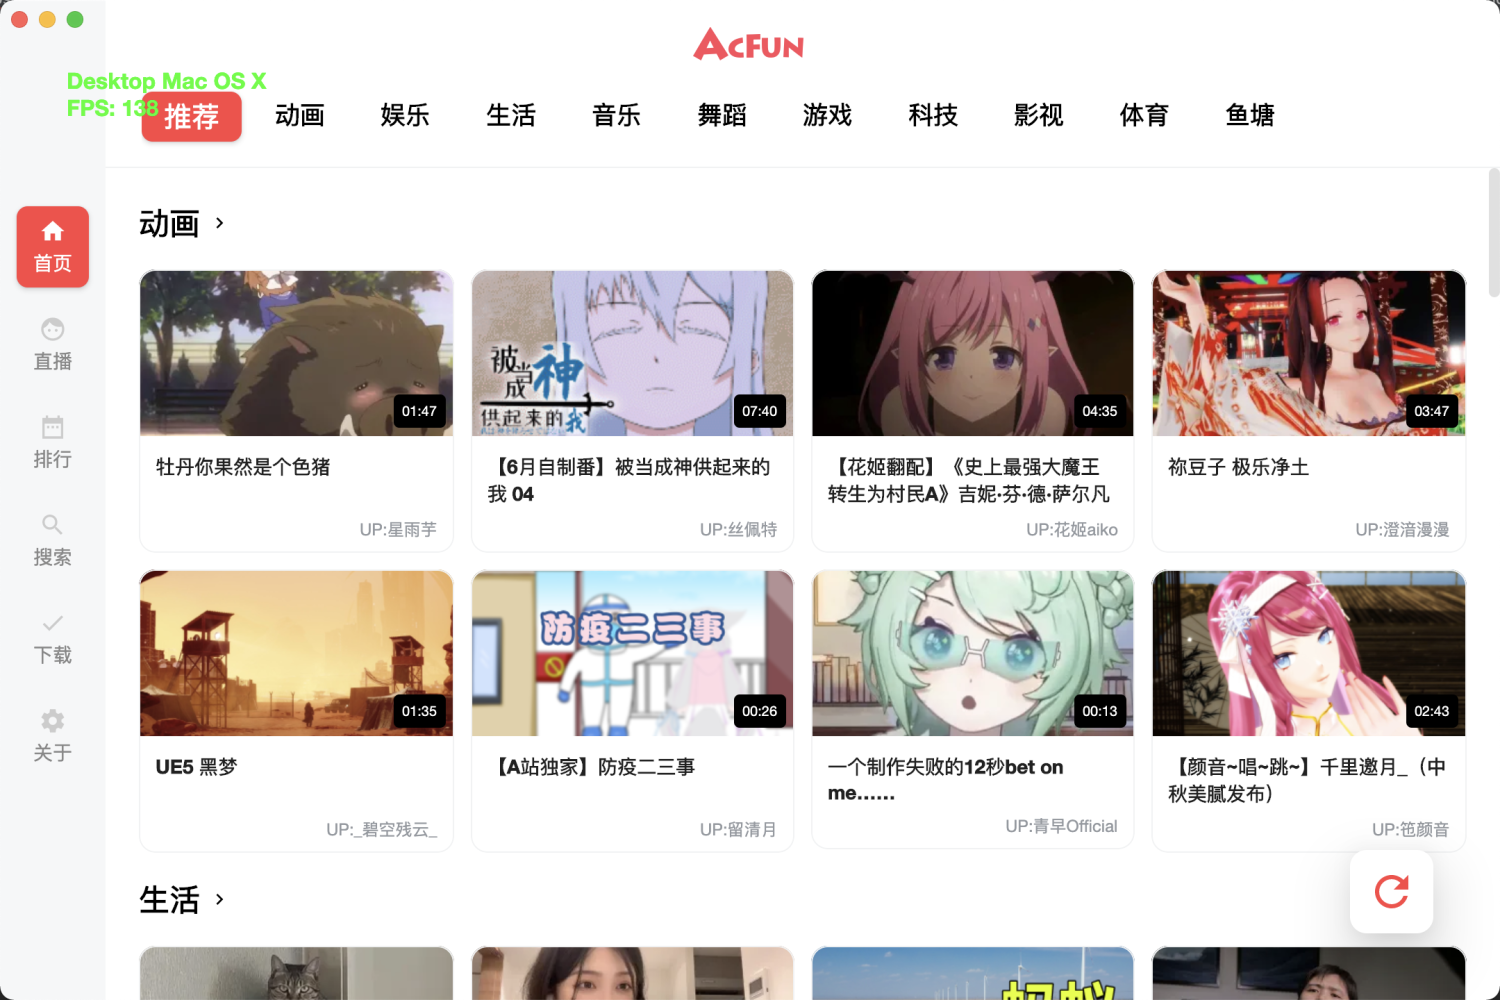
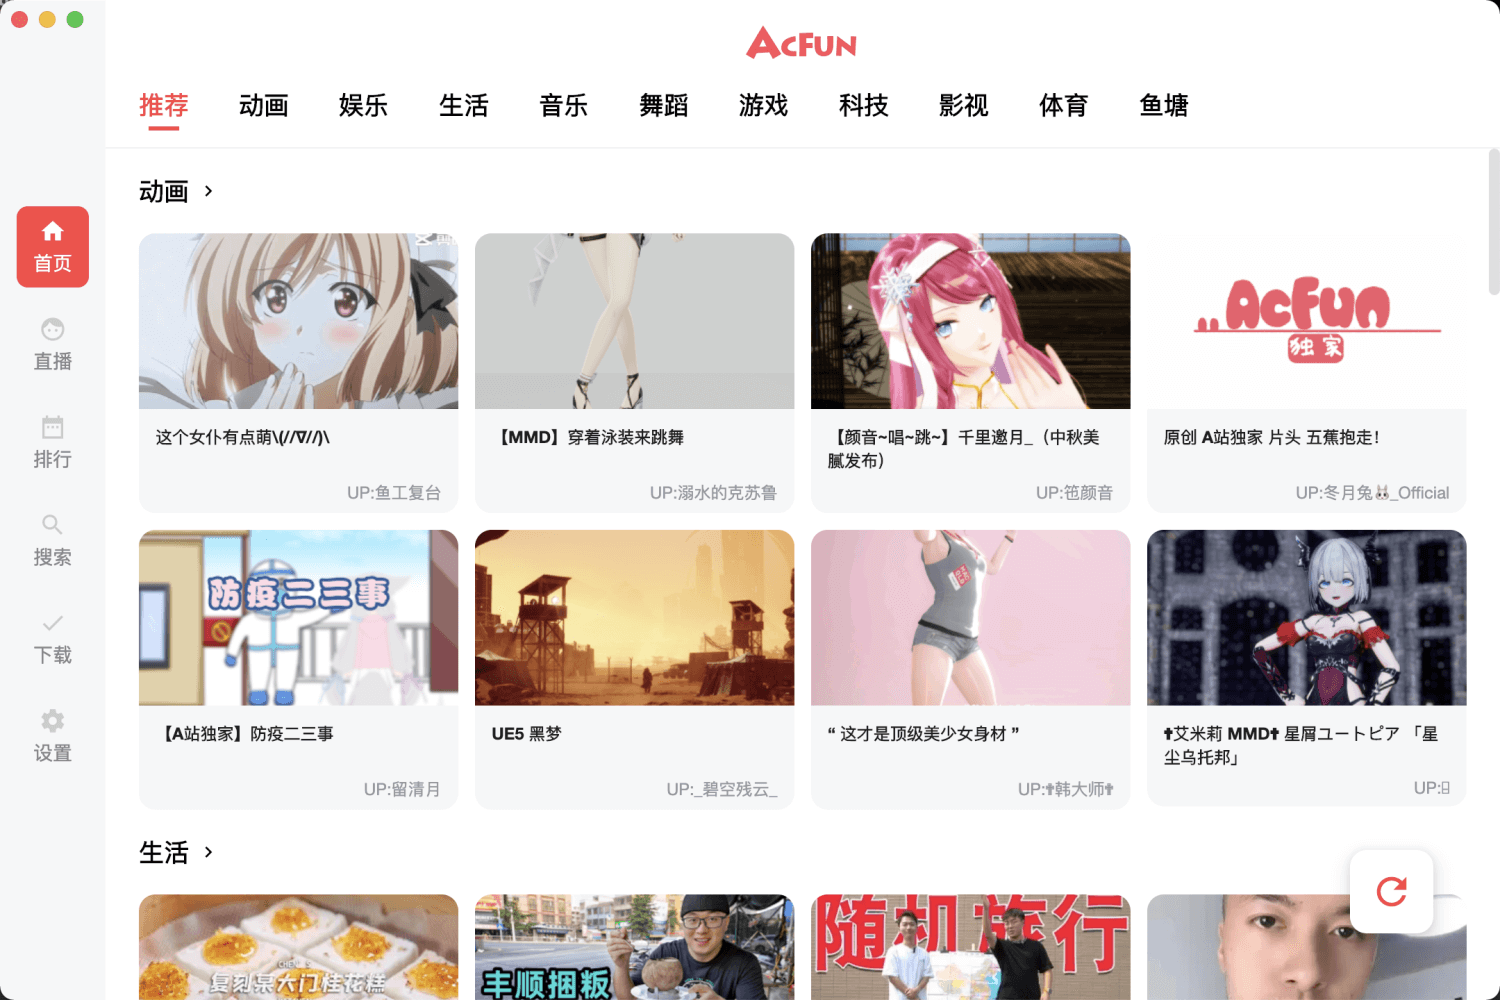
feat: update the video detail design

diff --git a/shared/src/commonMain/kotlin/org/succlz123/app/acfun/ui/detail/VideoDetailScreen.kt b/shared/src/commonMain/kotlin/org/succlz123/app/acfun/ui/detail/VideoDetailScreen.kt
@@ -17,9 +17,8 @@ import androidx.compose.runtime.mutableStateOf
 import androidx.compose.runtime.remember
 import androidx.compose.ui.Alignment
 import androidx.compose.ui.Modifier
-import androidx.compose.ui.draw.alpha
+import androidx.compose.ui.draw.clip
 import androidx.compose.ui.graphics.Color
-import androidx.compose.ui.layout.ContentScale
 import androidx.compose.ui.text.font.FontWeight
 import androidx.compose.ui.unit.dp
 import androidx.compose.ui.unit.sp
@@ -27,7 +26,7 @@ import org.succlz123.app.acfun.Manifest
 import org.succlz123.app.acfun.api.bean.AcContent
 import org.succlz123.app.acfun.api.bean.VideoContent
 import org.succlz123.app.acfun.base.AcBackButton
-import org.succlz123.app.acfun.base.AcOutlineButton
+import org.succlz123.app.acfun.base.AcDivider
 import org.succlz123.app.acfun.base.LoadingView
 import org.succlz123.app.acfun.theme.ColorResource
 import org.succlz123.lib.click.noRippleClickable
@@ -39,6 +38,7 @@ import org.succlz123.lib.image.AsyncImageUrlMultiPlatform
 import org.succlz123.lib.screen.LocalScreenNavigator
 import org.succlz123.lib.screen.LocalScreenRecord
 import org.succlz123.lib.screen.ScreenArgs
+import org.succlz123.lib.screen.ext.popupwindow.PopupWindowLayout
 import org.succlz123.lib.screen.operation.PushOptions
 import org.succlz123.lib.screen.result.ScreenResult
 import org.succlz123.lib.screen.value
@@ -60,14 +60,10 @@ fun VideoDetailScreen() {
     LaunchedEffect(Unit) {
         viewModel.getDetail(acContent)
     }
-    Box(modifier = Modifier.fillMaxSize().background(Color.White)) {
-        Box(modifier = Modifier.fillMaxSize().alpha(0.1f)) {
-            AsyncImageUrlMultiPlatform(
-                modifier = Modifier.fillMaxSize(), url = acContent.img.orEmpty(), contentScale = ContentScale.Crop
-            )
-        }
+    Box(modifier = Modifier.fillMaxSize().background(Color.White).noRippleClickable {
+        screenNavigation.cancelPopupWindow()
+    }) {
         val videoContent = viewModel.videoContentState.value
-
         when (videoContent) {
             is ScreenResult.Uninitialized, is ScreenResult.Loading -> {
                 LoadingView()
@@ -189,17 +185,19 @@ fun videoDetailContent(acContent: AcContent, vContent: VideoContent, viewModel: 
                 }, text = vContent.user?.name.orEmpty(), fontSize = 20.sp, color = ColorResource.acRed
             )
             Spacer(modifier = Modifier.width(16.dp))
-            Text(
-                text = "发布于: " + vContent.createTime.orEmpty(),
-                style = MaterialTheme.typography.body2,
-                fontSize = 12.sp
-            )
-            Spacer(modifier = Modifier.weight(1f))
-            Text(
-                text = "关注数: " + vContent.user?.fanCount.orEmpty(),
-                style = MaterialTheme.typography.body2,
-                fontSize = 12.sp
-            )
+            Column {
+                Text(
+                    text = "发布于: " + vContent.createTime.orEmpty(),
+                    style = MaterialTheme.typography.body2,
+                    fontSize = 12.sp
+                )
+                Spacer(modifier = Modifier.height(2.dp))
+                Text(
+                    text = "关注数: " + vContent.user?.fanCount.orEmpty(),
+                    style = MaterialTheme.typography.body2,
+                    fontSize = 12.sp
+                )
+            }
         }
         Spacer(modifier = Modifier.fillMaxWidth().height(16.dp))
         if (!vContent.description.isNullOrEmpty()) {
@@ -257,42 +255,71 @@ fun videoDetailContent(acContent: AcContent, vContent: VideoContent, viewModel: 
         LazyVerticalGrid(
             columns = GridCells.Fixed(
                 if (isExpandedScreen) {
-                    8
+                    6
                 } else {
-                    3
+                    2
                 }
-            ), modifier = Modifier.fillMaxSize()
+            ),
+            modifier = Modifier.fillMaxSize(),
+            contentPadding = PaddingValues(top = 12.dp, bottom = 12.dp),
+            verticalArrangement = Arrangement.spacedBy(12.dp),
+            horizontalArrangement = Arrangement.spacedBy(12.dp)
         ) {
             itemsIndexed(vContent.videoList.orEmpty()) { index, item ->
-                val modifier = if (index % 10 == 0) {
-                    Modifier.padding(0.dp, 0.dp, 6.dp, 12.dp)
-                } else if ((index + 1) % 12 == 0) {
-                    Modifier.padding(6.dp, 0.dp, 0.dp, 12.dp)
-                } else {
-                    Modifier.padding(6.dp, 0.dp, 6.dp, 12.dp)
-                }
-                Row(
-                    modifier = modifier.weight(1f),
-                    verticalAlignment = Alignment.CenterVertically,
-                    horizontalArrangement = Arrangement.Center
+                Box(
+                    modifier = Modifier.weight(1f).height(52.dp).clip(MaterialTheme.shapes.medium)
+                        .background(ColorResource.background)
                 ) {
-                    AcOutlineButton(modifier = Modifier, onClick = {
+                    Box(modifier = Modifier.align(Alignment.Center).fillMaxWidth().noRippleClickable {
                         viewModel.play(acContent, index + 1)
-                    }, content = {
-                        AsyncImageUrlMultiPlatform(url = "ic_download.png",
-                            modifier = Modifier.width(20.dp).height(20.dp).noRippleClickable {
-                                if (getPlatformName() == "Android") {
-                                    screenNavigation.toast("Android 还未适配下载...")
-                                    return@noRippleClickable
+                    }, contentAlignment = Alignment.Center) {
+                        Text(text = (index + 1).toString(), style = MaterialTheme.typography.h3)
+                    }
+                    PopupWindowLayout(modifier = Modifier.align(Alignment.CenterEnd),
+                        displayContent = {
+                            Card(
+                                modifier = Modifier.padding(12.dp),
+                                shape = RoundedCornerShape(8.dp),
+                                elevation = 3.dp,
+                                backgroundColor = Color.White
+                            ) {
+                                Column(
+                                    modifier = Modifier.padding(24.dp),
+                                    verticalArrangement = Arrangement.Center,
+                                ) {
+                                    OptionItem(modifier = Modifier.noRippleClickable {
+                                        if (getPlatformName() == "Android") {
+                                            screenNavigation.toast("Android 还未适配下载...")
+                                            screenNavigation.cancelPopupWindow()
+                                            return@noRippleClickable
+                                        }
+                                        viewModel.download(acContent, index + 1)
+                                        screenNavigation.cancelPopupWindow()
+                                    }, "下载视频")
+                                    Spacer(modifier = Modifier.height(24.dp))
+                                    AcDivider()
+                                    Spacer(modifier = Modifier.height(24.dp))
+                                    OptionItem(modifier = Modifier.noRippleClickable {
+                                        screenNavigation.toast("开发中...")
+                                        screenNavigation.cancelPopupWindow()
+                                    }, "无线投屏")
                                 }
-                                viewModel.download(acContent, index + 1)
-                            })
-                        Spacer(modifier = Modifier.width(16.dp))
-                        Text(text = (index + 1).toString(), fontSize = 16.sp)
-                    })
+                            }
+                        },
+                        clickableContent = {
+                            AsyncImageUrlMultiPlatform(
+                                url = "ic_show_more.png",
+                                modifier = Modifier.padding(12.dp, 6.dp, 12.dp, 6.dp).width(20.dp).height(20.dp)
+                            )
+                        })
                 }
             }
         }
     }
 }
 
+
+@Composable
+fun OptionItem(modifier: Modifier, title: String) {
+    Text(modifier = modifier, text = title, fontSize = 16.sp, color = Color.Black)
+}

diff --git a/shared/src/commonMain/kotlin/org/succlz123/app/acfun/base/BaseView.kt b/shared/src/commonMain/kotlin/org/succlz123/app/acfun/base/BaseView.kt
@@ -29,11 +29,11 @@ fun LoadingView() {
 
 @Composable
 fun AcRefreshButton(modifier: Modifier, onClick: () -> Unit) {
-    Card(modifier = modifier, backgroundColor = Color.White, elevation = 32.dp) {
+    Card(modifier = modifier, backgroundColor = Color.White, elevation = 12.dp) {
         Box(modifier = Modifier.padding(12.dp).noRippleClickable(onClick)) {
             Icon(
                 Icons.Sharp.Refresh,
-                modifier = Modifier.size(36.dp),
+                modifier = Modifier.size(36.dp).padding(2.dp),
                 contentDescription = "Refresh",
                 tint = ColorResource.acRed
             )
@@ -43,11 +43,11 @@ fun AcRefreshButton(modifier: Modifier, onClick: () -> Unit) {
 
 @Composable
 fun AcGo2TopButton(modifier: Modifier, onClick: () -> Unit) {
-    Card(modifier = modifier, backgroundColor = Color.White, elevation = 32.dp) {
+    Card(modifier = modifier, backgroundColor = Color.White, elevation = 12.dp) {
         Box(modifier = Modifier.padding(12.dp).noRippleClickable(onClick)) {
             Icon(
                 Icons.Sharp.KeyboardArrowUp,
-                modifier = Modifier.size(36.dp),
+                modifier = Modifier.size(36.dp).padding(2.dp),
                 contentDescription = "Go to top",
                 tint = ColorResource.acRed
             )

diff --git a/shared/src/commonMain/kotlin/org/succlz123/app/acfun/ui/main/tab/item/MainHomeContentInfo.kt b/shared/src/commonMain/kotlin/org/succlz123/app/acfun/ui/main/tab/item/MainHomeContentInfo.kt
@@ -1,7 +1,6 @@
 package org.succlz123.app.acfun.ui.main.tab.item
 
 import androidx.compose.foundation.background
-import androidx.compose.foundation.border
 import androidx.compose.foundation.layout.*
 import androidx.compose.foundation.shape.RoundedCornerShape
 import androidx.compose.material.MaterialTheme
@@ -25,8 +24,9 @@ import org.succlz123.lib.screen.ScreenArgs
 fun MainHomeContentInfo(item: HomeRecommendItem) {
     val screenNavigator = LocalScreenNavigator.current
     Box(
-        modifier = Modifier.background(Color.White).clip(MaterialTheme.shapes.medium)
-            .border(1.dp, ColorResource.border, MaterialTheme.shapes.medium).fillMaxWidth()
+        modifier = Modifier.clip(MaterialTheme.shapes.medium)
+            .background(ColorResource.background)
+            .fillMaxWidth()
     ) {
         Column(modifier = Modifier.noRippleClickable {
             if (item.item?.type == AcContent.TYPE_LIVE) {

diff --git a/shared/src/commonMain/kotlin/org/succlz123/app/acfun/ui/main/MainScreen.kt b/shared/src/commonMain/kotlin/org/succlz123/app/acfun/ui/main/MainScreen.kt
@@ -144,11 +144,10 @@ fun LazyListScope.mainLeft(mainVm: MainViewModel, leftSelectItem: MutableState<I
         Card(
             modifier = Modifier.noRippleClickable {
                 leftSelectItem.value = index
-            }, shape = RoundedCornerShape(8.dp), elevation = if (index == leftSelectItem.value) {
-                3.dp
-            } else {
-                0.dp
-            }, backgroundColor = if (index == leftSelectItem.value) {
+            },
+            shape = RoundedCornerShape(8.dp),
+            elevation = 0.dp,
+            backgroundColor = if (index == leftSelectItem.value) {
                 ColorResource.acRed
             } else {
                 Color.Transparent

diff --git a/README.md b/README.md
@@ -1,6 +1,6 @@
 <br/>
 <div align="center">
-<img width="160" height="160" style="display: block; border: 1px solid #f5f5f5; border-radius: 9999px;" src="./art/ic_acfun_title.png">
+<img width="150" height="150" style="display: block; border: 1px solid #f5f5f5; border-radius: 9999px;" src="./art/ic_acfun_title.png">
 </div>
 <br/>
 <br/>
@@ -9,11 +9,58 @@
 <img src="https://img.shields.io/static/v1?label=platform&message=Android&color=green"/>   <img src="https://img.shields.io/static/v1?label=platform&message=Desktop&color=blue"/>
 </div>
 <br/>
+
 <div align="center">
 <h1>AcFun-Client-Multiplatform</h1>
 <p>这是一个旨在使用 Compose Multiplatform 技术来构建一个多平台的在线流媒体客户端, 同时支持 Android Phone，Android Pad,
 Android TV, Windows, Mac OS, Linux。
 </p>
+
+</div>
+
+<div align="center">
+
+<h2>竖屏</h2>
+
+<br/>
+<br/>
+<img src="./art/11.png" width="19.2%" alt="startup" />
+<img src="./art/22.png" width="19.2%" alt="startup" />
+<img src="./art/33.png" width="19.2%" alt="startup" />
+<img src="./art/44.png" width="19.2%" alt="startup" />
+<img src="./art/55.png" width="19.2%" alt="startup" />
+
+<br/>
+<br/>
+
+</div>
+
+
+<div align="center">
+
+<h2>横屏</h2>
+
+<br/>
+<br/>
+<img src="./art/1.png" width="29.2%" alt="startup" />
+<img src="./art/2.png" width="29.2%" alt="startup" />
+<img src="./art/3.png" width="29.2%" alt="startup" />
+
+<br/>
+<br/>
+
+</div>
+
+<div align="center">
+
+<br/>
+<br/>
+
+<img src="./art/4.png" width="29.2%" alt="startup" />
+<img src="./art/5.png" width="29.2%" alt="startup" />
+
+<br/>
+<br/>
 
 </div>
 
@@ -38,29 +85,3 @@ https://github.com/succlz123/AcFun-Client-Multiplatform/releases
 - Android TV 适配。
 - DLNA 投屏。
 - 番剧，文章区。
-
-## 不同平台下展示
-
-### 桌面和平板
-
-<div align="center">
- <img width="750" height="500"  src="./art/1.png">
-</div>
-
-### 手机
-
-<div align="center">
- <img width="360" height="800"  src="./art/9.png">
-</div>
-
-### 下载
-
-<div align="center">
- <img width="750" height="500"  src="./art/15.png">
-</div>
-
-### 播放和弹幕
-
-<div align="center">
- <img width="750" height="500"  src="./art/12.png">
-</div>
